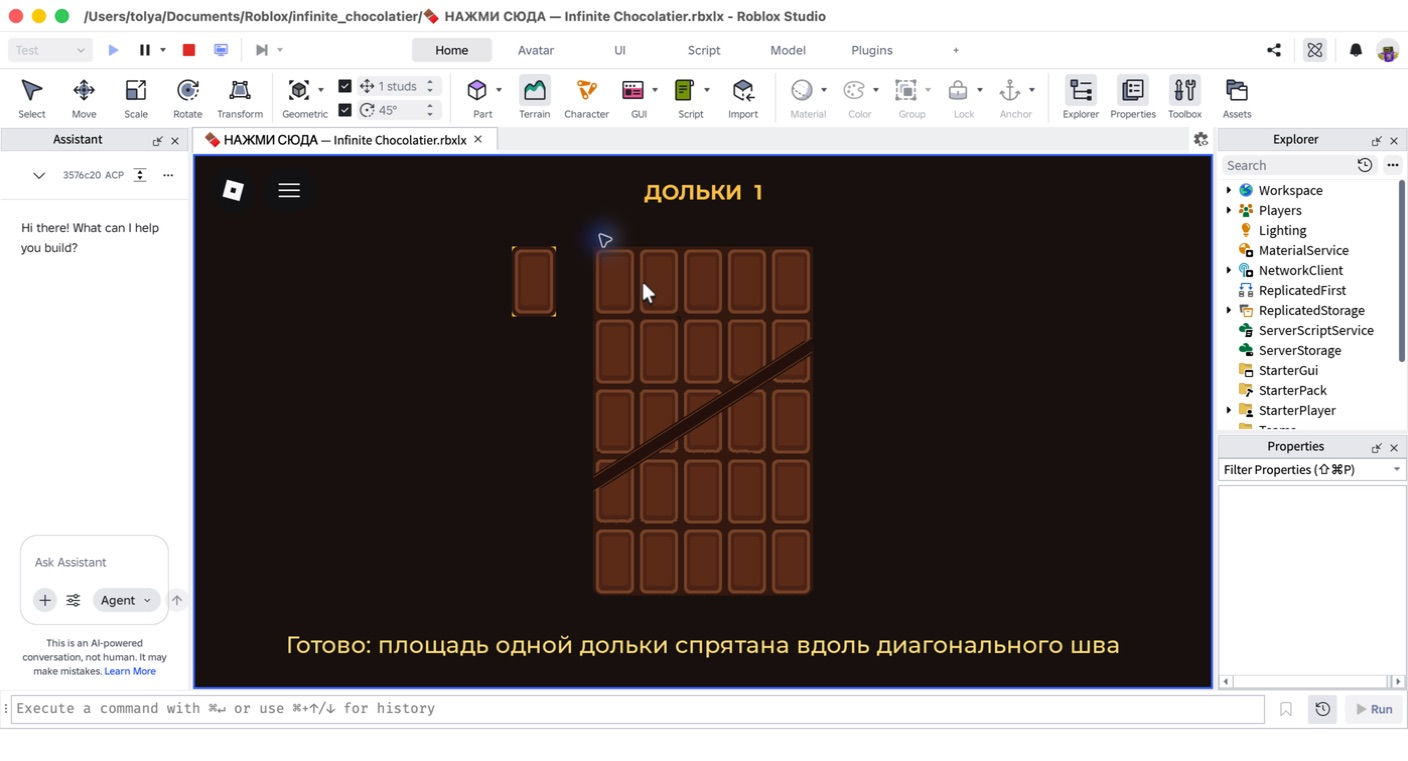
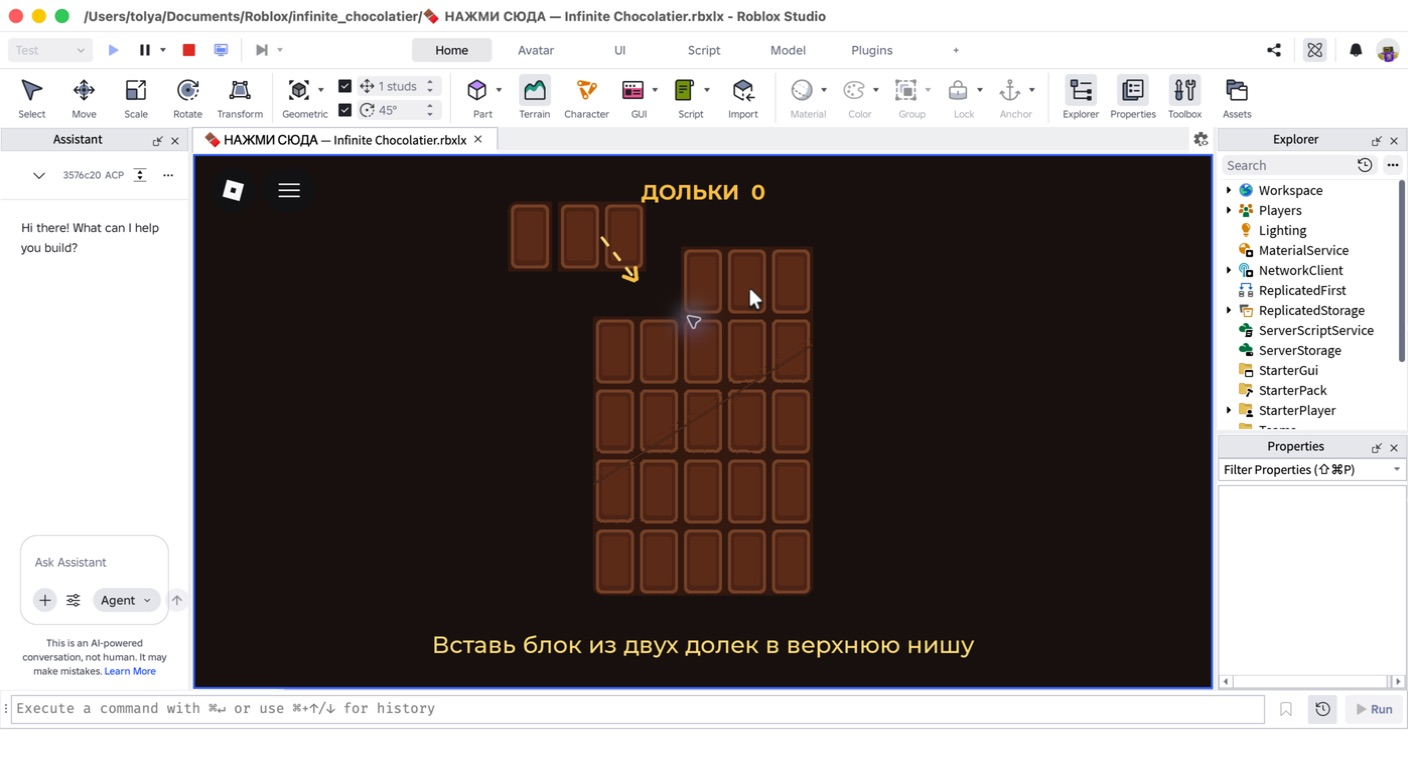
Hide Curry gap with optical chocolate stretch

diff --git a/HANDOFF.md b/HANDOFF.md
@@ -24,6 +24,9 @@ Rojo и Roblox Studio.
   и `(-3, +1)` воспроизводят Curry-схему видео;
 - площадь внешней дольки распределяется полосой `5 × 0.2 = 1` вдоль нового
   диагонального шва;
+- сама полоса игроку не показывается: нижние края спрайтов двух верхних
+  полигонов оптически продолжаются на `0,2` ряда вместе с рамками и рельефом,
+  поэтому после сборки остаётся только тонкий естественный шов;
 - двухдольный блок закрывает верхнюю нишу, а подсвеченная одиночная долька —
   настоящий исходный кусок, не новый шоколадный `Instance`;
 - полноэкранный UI с минимальным HUD и инструкцией внизу;
@@ -60,11 +63,13 @@ rojo build --output /tmp/infinite-chocolatier-sol-check.rbxlx
 rojo serve
 ```
 
-На 2026-08-21: новая Curry-геометрия даёт `26 прошло, 0 упало`, Rojo build
+На 2026-08-21: новая Curry-геометрия даёт `27 прошло, 0 упало`, Rojo build
 успешен. В одном экземпляре Studio вручную проверены цельная плитка,
 непрерывный рез, разлёт пяти частей, захват крупной диагональной области,
 вставка двухдольного блока, внешняя исходная долька, серверное начисление
-ровно одной дольки и автоматический сброс. Output остался пустым.
+ровно одной дольки и автоматический сброс. Отдельно проверено, что широкая
+Curry-полоса больше не видна, а сетка продолжается через неё без ступенек.
+Output не содержит ошибок.
 
 `Agent Long Run ON` не смог подтвердить удержание сна, поэтому тест был
 коротким и непрерывно контролируемым. После проверки выполнен штатный OFF,

diff --git a/README.md b/README.md
@@ -24,7 +24,9 @@
 смещаются на `(2, -1)` и `(-3, +1)`, а разница между старой и новой
 диагональю равна `5 × 0.2 = 1`. Двухдольный блок закрывает верхнюю нишу,
 одиночная исходная долька остаётся снаружи. Новый шоколадный `Instance` не
-создаётся. Подробности и фазы ролика записаны в
+создаётся. Чтобы не выдавать устройство фокуса чёрной полосой, существующие
+спрайты пересечённых долек незаметно продолжаются вниз на `0,2` ряда: вместе
+растягиваются шоколад, рамка и внутренний рельеф. Подробности и фазы ролика записаны в
 [REFERENCE_ANALYSIS.md](REFERENCE_ANALYSIS.md).
 
 ## Проверки
@@ -43,8 +45,8 @@ rojo build --output /tmp/infinite-chocolatier-sol-check.rbxlx
 3. Провести по диагонали короткими непрерывными движениями, затем выполнить
    два сдвига по стрелкам.
 
-Текущая проверка: 26 тестов прошли, сборка Rojo успешна. В одном Studio прошёл
+Текущая проверка: 27 тестов прошли, сборка Rojo успешна. В одном Studio прошёл
 полный визуальный цикл от цельной плитки до начисления одной дольки и
-автоматического сброса; Output пуст. Контрольный кадр:
+автоматического сброса; широкая полоса скрыта, Output без ошибок. Контрольный кадр:
 [infinite-chocolatier-curry-result.jpg](infinite-chocolatier-curry-result.jpg).
 Place не публиковался.
